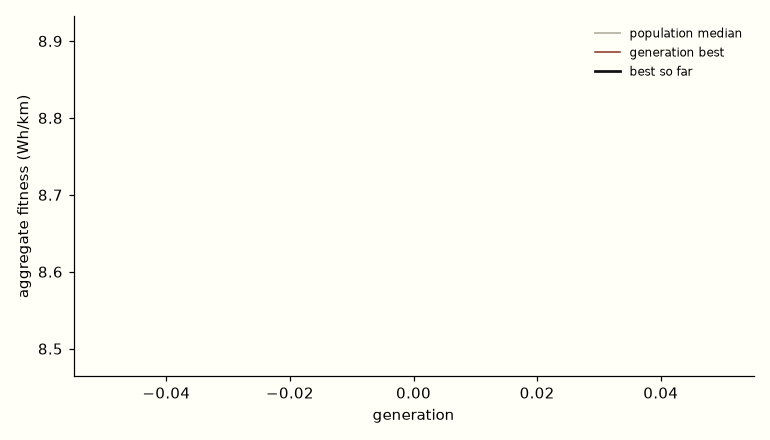
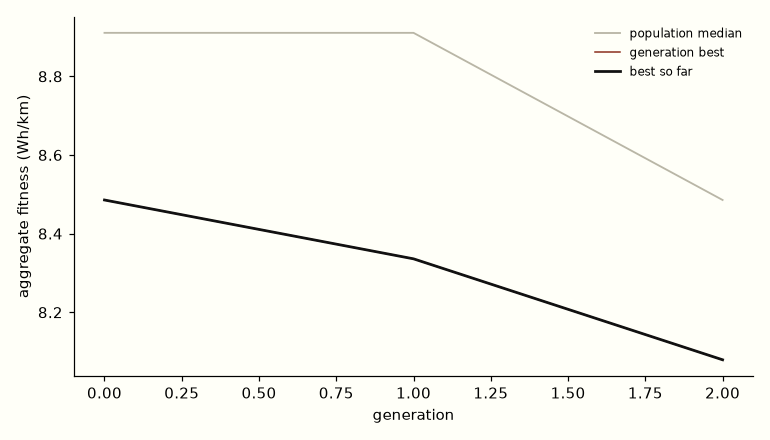
Glossary: real-morph gene definitions

diff --git a/docs/glossary.html b/docs/glossary.html
@@ -156,55 +156,41 @@ completed generation, re-using every already-evaluated genome via its hash.</dd>
 
 <h3>the shape (what the genes mean)</h3>
 <dl>
-<dt>Arm length / width / height</dt>
-<dd>Each of the four cantilever arms carrying a motor: its reach from the body
-(sets the rotor footprint) and its structural cross-section. Longer arms clear
-the body easily and lower resonance frequency; fatter arms are stiff but heavy
-and draggy.</dd>
+<dt>Arm length / width / waist scale</dt>
+<dd>Stretch and reshape the REAL Source One V6 arm outlines: the shaft
+between the bolt tongue and the motor mount stretches (wheelbase, disk
+clearance), its width scales, and the waist gene adds extra mid-shaft
+narrowing (drag vs. stiffness). The tongue and the 16&thinsp;&times;&thinsp;19&thinsp;mm motor
+pattern never deform.</dd>
 
-<dt>Arm sweep</dt>
-<dd>Plan-view angle of the front arm pair from the forward axis (rear pair
-mirrored). 45&deg; is a pure X-frame; low sweep pushes rotors forward/backward,
-high sweep pushes them sideways.</dd>
+<dt>Arm thickness</dt>
+<dd>Plate thickness of the arms (real V6: 6&thinsp;mm carbon).</dd>
 
-<dt>Arm dihedral</dt>
-<dd>Upward (or downward) tilt of the arms out of the body plane.</dd>
+<dt>Front / rear sweep</dt>
+<dd>Rotate each arm pair about its plate anchor. The front anchors are exact
+bolt-pattern registrations from the official drawing (stock: 31.4&deg;); left
+and right arms keep their true mirrored chirality.</dd>
 
-<dt>Cross-section blend</dt>
-<dd>One gene morphing the arm cross-section from rectangle (drag coefficient
-&asymp; 1.9) through ellipse (&asymp; 1.1) to a faired, teardrop-like section (&asymp; 0.6).
-The main aerodynamic lever on the arms.</dd>
+<dt>Plate length / width / thickness scale</dt>
+<dd>Stretch the real main / mid / top deck plates with their cutouts and
+holes; the 30.5&thinsp;mm stack pattern stays pinned exactly.</dd>
 
-<dt>Arm taper</dt>
-<dd>Tip-to-root scale of the arm section (0.5&ndash;1.0). Saves mass and tip drag at
-the cost of tip stiffness.</dd>
+<dt>Deck gap</dt>
+<dd>Standoff length between mid and top plate (real: M3&times;30). Must fit the
+FC/ESC stack; also sets the vertical margin between the rear props and the
+top-plate corners.</dd>
 
-<dt>Deck length / width / gap (body genes)</dt>
-<dd>The central deck &mdash; two plates separated by standoffs, in the
-TBS-Source-One style. The plates must offer a 36&thinsp;mm flat for the flight
-controller, the gap must fit the 20&thinsp;mm FC/ESC stack, and the top plate must
-carry the battery pack, which is strapped on top, exposed to the airflow.</dd>
-
-<dt>Body fillet</dt>
-<dd>Plan-view corner radius of the deck plates &mdash; trims projected area and
-mass.</dd>
-
-<dt>Battery wedge (<code>body_pitch_deg</code>)</dt>
-<dd>Nose-down tilt of the battery pack on the deck. Quadcopters lean into the
-wind to fly forward; a wedged pack meets the oncoming flow more edge-on in
-cruise, trimming the biggest bluff body on the aircraft.</dd>
-
-<dt>Thickness scale</dt>
-<dd>Scales the 2&thinsp;mm deck plate thickness: lighter vs. stiffer/heavier.</dd>
+<dt>Battery wedge (<code>battery_wedge_deg</code>)</dt>
+<dd>Nose-down tilt of the cell pack on the top plate, trimming the biggest
+bluff body in forward flight.</dd>
 
 <dt>Material (gene)</dt>
 <dd>Selects the frame material &mdash; plates and arms &mdash; from the platform
 library: CNC-cut carbon plate, carbon-fiber nylon (PA12-CF), PET-CF, PLA+,
 PETG or ASA. Each brings its own density, tensile strength and stiffness, so
-the optimizer trades mass against the structural constraints: a slender arm
-that carbon plate carries easily is too floppy in PETG. Printed values are
-XY-direction datasheet numbers; layer-line weakness is only covered by the
-global 1.5 safety factor.</dd>
+the optimizer trades mass against the structural constraints. Printed values
+are XY-direction datasheet numbers; layer-line weakness is only covered by
+the global 1.5 safety factor.</dd>
 </dl>
 
 <h3>the target metric</h3>

diff --git a/results/leaderboard.md b/results/leaderboard.md
@@ -2,5 +2,9 @@
 
 | rank | hash | gen | operator | material | frame g | agg Wh/km | mean | worst | calm_warm | cold_headwind | storm | crosswind | gusty_light | hot_thin |
 |---|---|---|---|---|---|---|---|---|---|---|---|---|---|---|
-| 1 | `baac55fb3837` | 0 | seed | cf_plate | 144.3 | 8.486 | 5.165 | 6.642 | 3.666 | 6.616 | 6.642 | 5.350 | 4.798 | 3.917 |
-| 2 | `db261bddf5bf` | 0 | seed | cf_plate | 144.8 | 8.911 | 5.390 | 7.041 | 3.727 | 7.041 | 6.967 | 5.629 | 5.002 | 3.976 |
+| 1 | `828c02524eb1` | 2 | crossover | pa12_cf | 99.0 | 8.079 | 4.904 | 6.350 | 3.449 | 6.350 | 6.333 | 5.053 | 4.556 | 3.683 |
+| 2 | `7ff007f350ce` | 1 | crossover | pa12_cf | 103.4 | 8.336 | 5.041 | 6.589 | 3.501 | 6.589 | 6.528 | 5.213 | 4.681 | 3.735 |
+| 3 | `baac55fb3837` | 0 | seed | cf_plate | 144.3 | 8.486 | 5.165 | 6.642 | 3.666 | 6.616 | 6.642 | 5.350 | 4.798 | 3.917 |
+| 4 | `db261bddf5bf` | 0 | seed | cf_plate | 144.8 | 8.911 | 5.390 | 7.041 | 3.727 | 7.041 | 6.967 | 5.629 | 5.002 | 3.976 |
+| 5 | `4c7cfc376983` | 1 | mutation | cf_plate | 145.6 | 8.936 | 5.401 | 7.070 | 3.728 | 7.070 | 6.989 | 5.629 | 5.009 | 3.979 |
+| 6 | `71ecd847dd02` | 2 | crossover | cf_plate | 142.5 | 8.946 | 5.406 | 7.080 | 3.726 | 7.080 | 6.995 | 5.643 | 5.017 | 3.973 |